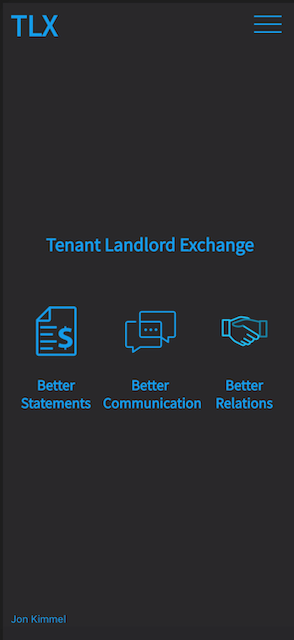
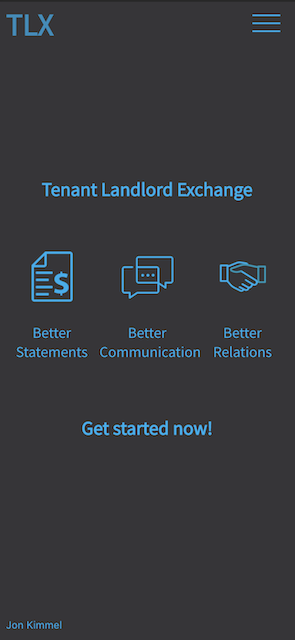
demo login add

diff --git a/src/Components/SignIn/SignIn.js b/src/Components/SignIn/SignIn.js
@@ -14,6 +14,9 @@ export default class SignIn extends React.Component {
     email: "",
     password: "",
     message: "",
+    demoMode: false,
+    demoUser: "Bob@BobTheBuilder.com",
+    demoPassword: "testtest",
   };
 
   // Sets state
@@ -46,46 +49,100 @@ export default class SignIn extends React.Component {
       });
   }
 
+  // Add'd to toggle the demo mode on and off and will prefill demo account information.
+  demo = (e) =>{
+    e.preventDefault();
+    if(this.state.demoMode === false){
+      this.setState({demoMode: true})
+      this.setState({email:'Bob@BobTheBuilder.com', password:'testtest'})
+    }else{
+      this.setState({demoMode: false})
+      this.setState({email:'', password:''})
+    }
+  }
+
   render() {
     return (
       <main className="signInPage">
         <div className="signContainer">
-          <form className="signInForm" onSubmit={(e) => this.submit(e)}>
-            <input
-              id="usernameInput"
-              type="text"
-              name="email"
-              placeholder="Username"
-              maxLength="35"
-              onChange={(e) => this.change(e)}
-              value={this.state.email}
-              required
-            />
 
-            <input
-              id="passwordInput"
-              type="password"
-              name="password"
-              placeholder="Password"
-              maxLength="25"
-              onChange={(e) => this.change(e)}
-              value={this.state.password}
-              required
-            />
+          {this.state.demoMode === false ? (
+              <form className="signInForm" onSubmit={(e) => this.submit(e)}>
+                <input
+                    id="usernameInput"
+                    type="text"
+                    name="email"
+                    placeholder="Username"
+                    maxLength="35"
+                    onChange={(e) => this.change(e)}
+                    value={this.state.email}
+                    required
+                />
 
-            {/* Should a username a password be wrong this will render and advise the user of the error */}
-            <p>{this.state.message}</p>
+                <input
+                    id="passwordInput"
+                    type="password"
+                    name="password"
+                    placeholder="Password"
+                    maxLength="25"
+                    onChange={(e) => this.change(e)}
+                    value={this.state.password}
+                    required
+                />
 
-            <div className="buttonContainer">
-              <button type="submit" id="signInButton">
-                Sign Me In
-              </button>
-            </div>
-          </form>
+                {/* Should a username a password be wrong this will render and advise the user of the error */}
+                <p>{this.state.message}</p>
+
+                <div className="buttonContainer">
+                  <button type="submit" id="signInButton">
+                    Sign Me In
+                  </button>
+                </div>
+              </form>
+
+          ):(
+              <form className="signInForm" onSubmit={(e) => this.submit(e)}>
+                <input
+                    id="usernameInput"
+                    type="text"
+                    name="email"
+                    placeholder={this.state.demoUser}
+                    maxLength="35"
+                    value={this.state.demoUser}
+                    required
+                />
+
+                <input
+                    id="passwordInput"
+                    type="password"
+                    name="password"
+                    placeholder={this.state.demoPassword}
+                    maxLength="25"
+                    value={this.state.demoPassword}
+                    required
+                />
+
+                {/* Should a username a password be wrong this will render and advise the user of the error */}
+                <p>{this.state.message}</p>
+
+                <div className="buttonContainer">
+                  <button type="submit" id="signInButton">
+                    Sign Me In
+                  </button>
+                </div>
+              </form>
+
+          )}
 
           <p id="signInNewUser">
             <Link to="/Register">Create a New Account</Link>
           </p>
+
+          {/* Demo Mode will toggle and let user know if they are in demo mode or not. */}
+          <p id="demoToggle" onClick={(e) => this.demo(e)}>
+            {this.state.demoMode === false ? ('Demo Mode Off') : ('Demo Mode On')}
+          </p>
+
         </div>
       </main>
     );

diff --git a/src/Components/Account/Account.js b/src/Components/Account/Account.js
@@ -53,6 +53,24 @@ export default class Account extends React.Component {
       });
   }
 
+  /*
+  If demo account (user 2) than will stop submit and disallow.
+  This is needed so other users can view demo version.
+  If a demo user were to change the email or password it would lock other users out of the demo.
+  This is also validated on backend however since the api call updates user info, and the endpoint on the backend
+   would be blocked, the user would be presented an error.
+  */
+  checkDemo = (e) => {
+    e.preventDefault();
+    if(`${UserService.getUserId()}` === '2'){
+      alert("Sorry, for demonstration purposes you are unable to update user information on" +
+          " this account. For non-demonstration accounts user information will be updated.")
+    }else{
+      // continues to update the user information
+      this.handleSubmit(e)
+    }
+  }
+
   // handles submit for contact info update
   handleSubmit = (e) => {
     e.preventDefault();
@@ -110,7 +128,7 @@ export default class Account extends React.Component {
     }
   };
 
-  // handles submit for password with password validation
+  // handles submit for password with password validation. Demo user validation on backend.
   handleSubmitPassword(e) {
     e.preventDefault();
 
@@ -201,7 +219,7 @@ export default class Account extends React.Component {
             <h3>Update your contact information</h3>
             <form
               className="contactInformation"
-              onSubmit={(e) => this.handleSubmit(e)}
+              onSubmit={(e) => this.checkDemo(e)}
             >
               <input
                 type="text"

diff --git a/src/Components/MainPage/MainPage.js b/src/Components/MainPage/MainPage.js
@@ -17,23 +17,24 @@ export default class MainPage extends React.Component {
           <Link to="/Sign-in">
             <div>
               <img src={billing} alt="billing icon" />
-              <h3>Better Statements</h3>
+              <p>Better Statements</p>
             </div>
           </Link>
 
           <Link to="/Sign-in">
             <div>
               <img src={communication} alt="message icon" />
-              <h3>Better Communication</h3>
+              <p>Better Communication</p>
             </div>
           </Link>
           <Link to="/Sign-in">
             <div>
               <img src={handShake} alt="message icon" />
-              <h3>Better Relations</h3>
+              <p>Better Relations</p>
             </div>
           </Link>
         </div>
+        <h2 id="callToAction"> <Link to="/Sign-in">Get started now!</Link></h2>
       </main>
     );
   }

diff --git a/src/Components/MainPage/MainPage.css b/src/Components/MainPage/MainPage.css
@@ -48,14 +48,31 @@ link {
   color: #00aded;
 }
 
-.mainPage h3:hover {
+.homeCall p {
+  font-size: 19px;
+}
+
+.homeCall p:hover {
+  color: #00adedb8;
+}
+
+#callToAction a{
+  color: #00aded;
+}
+
+#callToAction {
+  text-align: center;
+  margin-top: 50px;
+}
+
+#callToAction a:hover{
   color: #00adedb8;
 }
 
 /******************************\\\\\\\\\\  TABLET SCREEN  /////////******************************/
 @media only screen and (min-width: 550px) {
   .homeCall div {
-    width: 180px;
+    width: 183px;
   }
 }
 

diff --git a/src/Components/SignIn/SignIn.css b/src/Components/SignIn/SignIn.css
@@ -57,7 +57,7 @@ input[type="text"] {
   background-color: #00adedb8;
 }
 
-#signInNewUser a {
+#signInNewUser a{
   text-decoration: none;
   font-size: 18px;
   color: #00aded;
@@ -65,6 +65,11 @@ input[type="text"] {
 
 #signInNewUser a:hover {
   color: #00adedb8;
+}
+
+#demoToggle:hover{
+  color: #00adedb8;
+  cursor: pointer;
 }
 
 form input,
